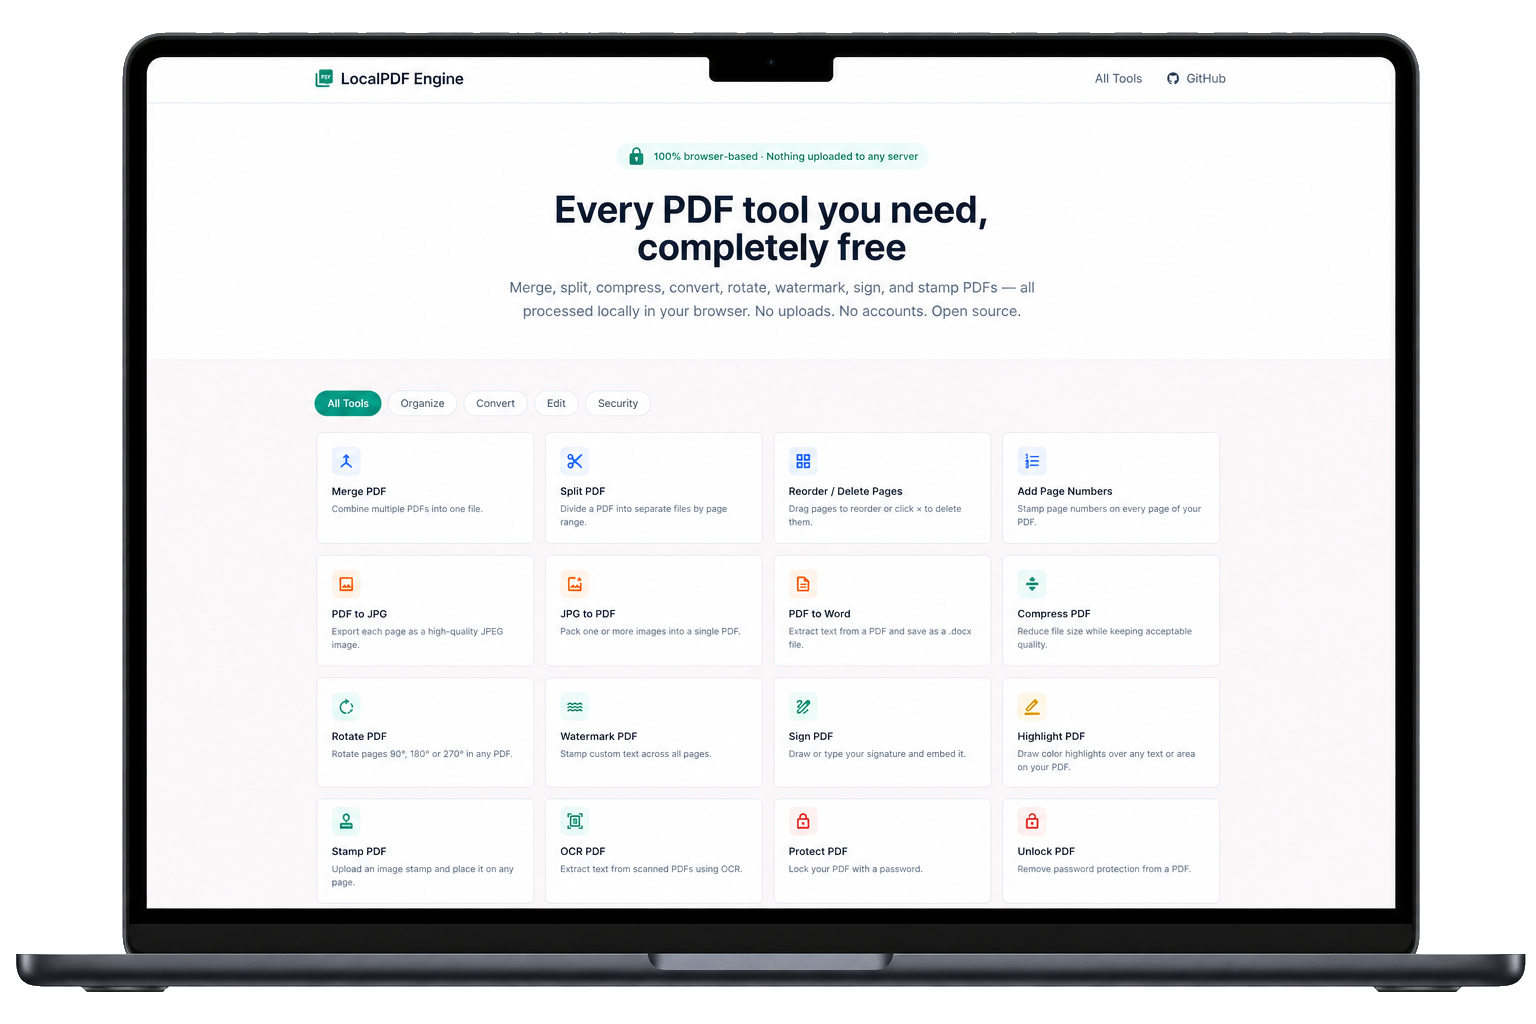
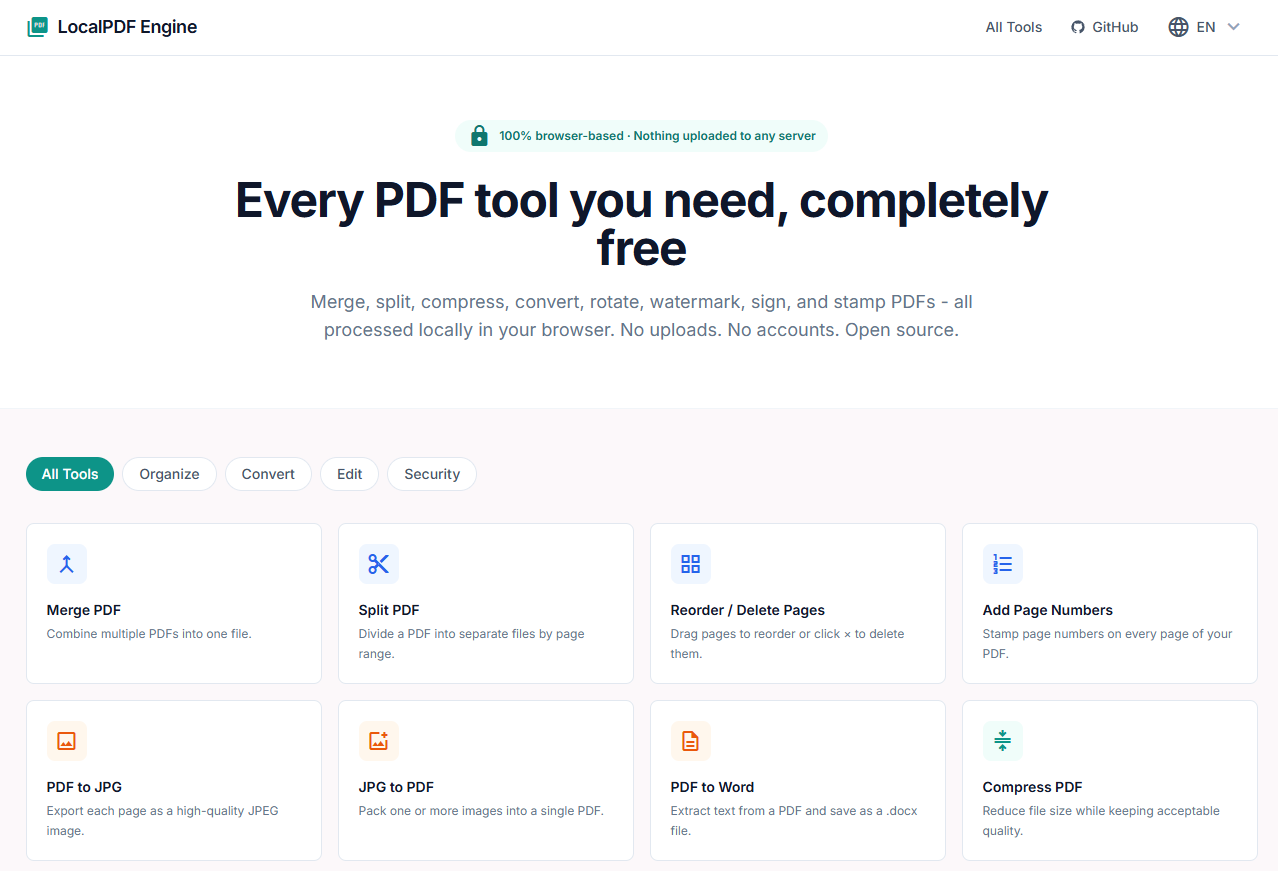
Remove mobile mockup and update desktop image
Remove the Mobile View section and phone mockup image link from README.md, and replace the desktopview.png binary with an updated image. The README now only displays the Desktop View mockup.

diff --git a/README.md b/README.md
@@ -47,10 +47,6 @@
 
 ### Desktop View
 ![Desktop Interface](./assets/mockup_images/desktopview.png)
-
-### Mobile View
-![Mobile Interface](./assets/mockup_images/phoneview.png)
-
 ---
 
 ## 🔒 Privacy & Security Architecture